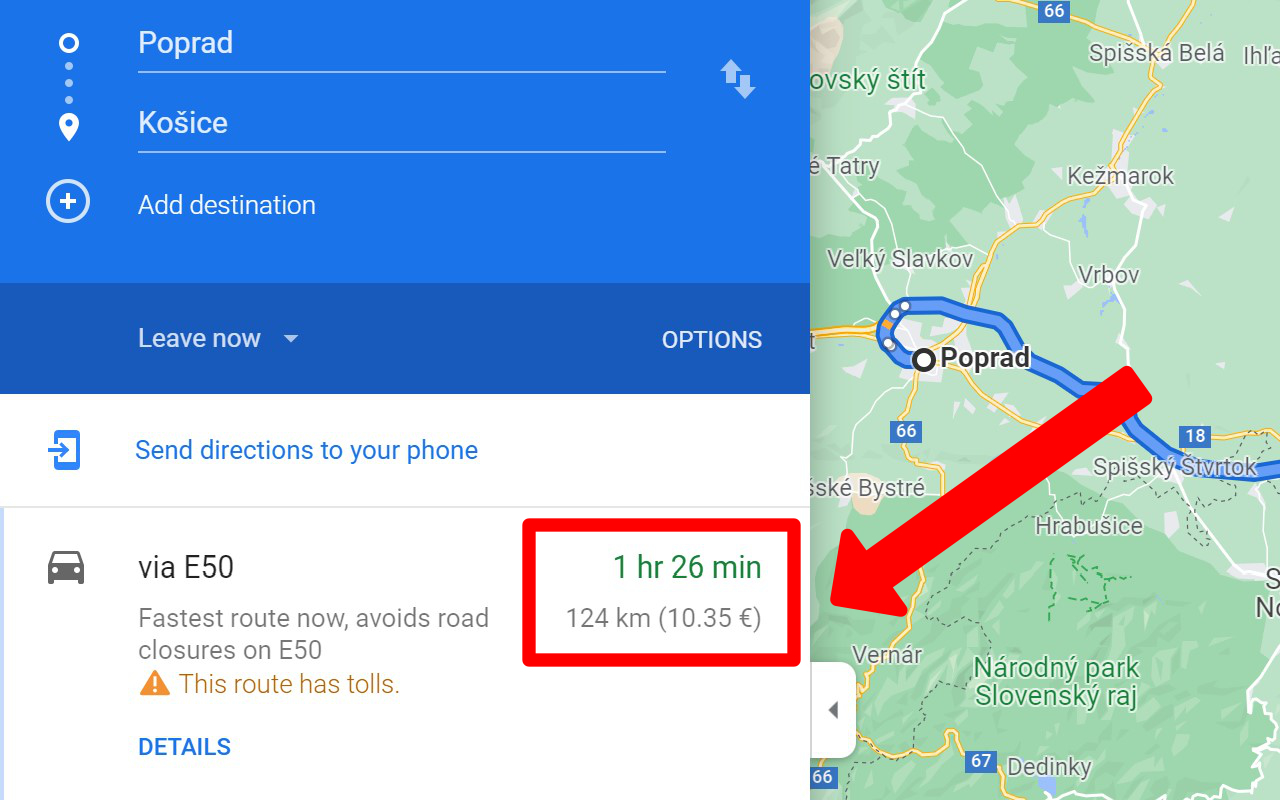
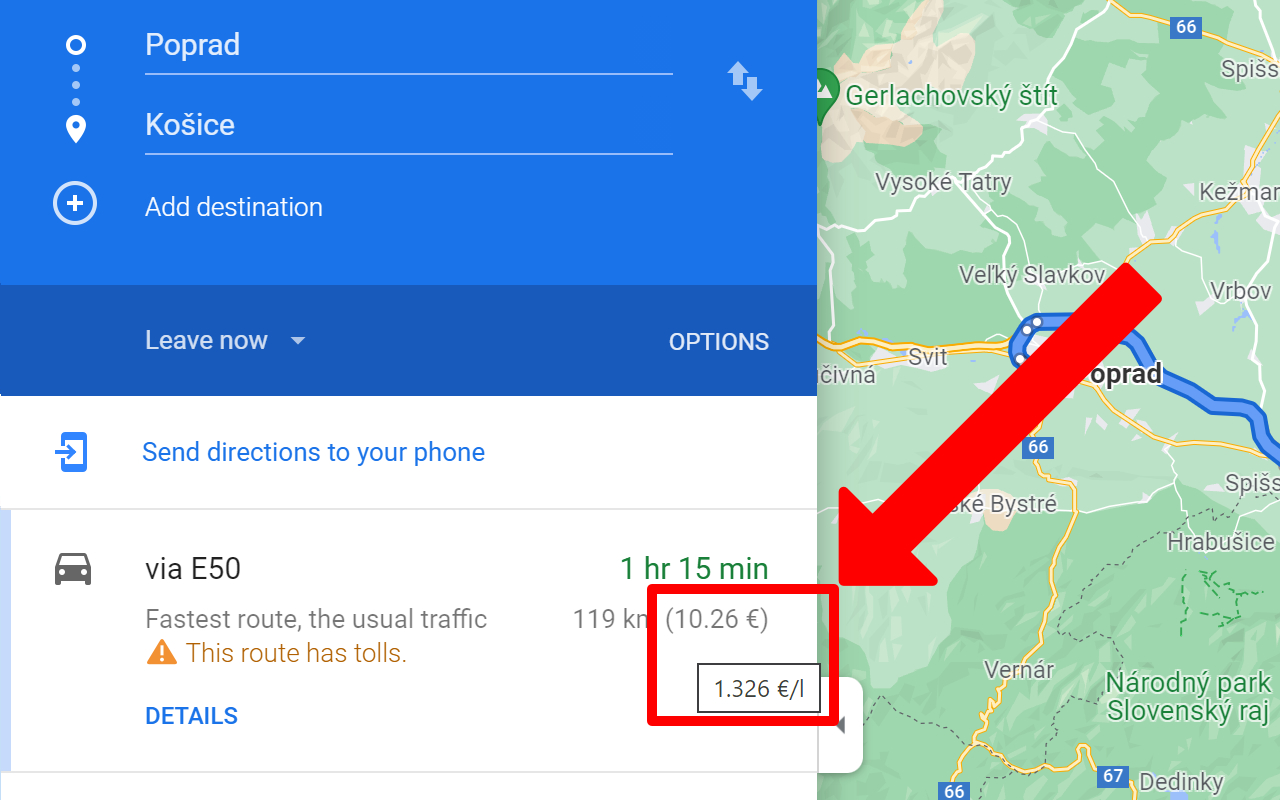
Description and screenshot

diff --git a/README.md b/README.md
@@ -1,12 +1,12 @@
 # ![Icon](icon-32.png) Cost of driving in Google Maps
 
-Automatically show the cost of rides by your vehicle in the Google Maps list of directions based on the current average fuel price.
+Automatically show the cost of rides by your vehicle in the Google Maps' list of routes based on the current average fuel price.
 
-The extension automatically calculates and shows the approximate cost of a trip for electric or classic (combustion) vehicles based on the current average fuel price, the distance of the route, and the average consumption of your vehicle.
+Simplify your planning of trips with automatic calculation of the cost of rides by your vehicle directly in the Google Maps' list of routes. 
 
-You can set your custom values anytime on the options page.
+The extension automatically calculates and shows the approximate cost of a trip for electric or classic (combustion) vehicles based on the current average price of fuel or energy, the distance of the route, and the average consumption of your vehicle.
 
-\* Automatic detection of the average fuel price is currently available only in Slovakia
+\* Automatic detection of the average fuel price is currently available only in Slovakia.
 
 ## Browser extensions
 
@@ -16,7 +16,7 @@ You can set your custom values anytime on the options page.
 
 ## Screenshots
 
-### List of directions
+### List of routes
 ![Screenshot 1](screenshot-1.jpg)
 ### Options for diesel vehicles
 ![Screenshot 2](screenshot-2.jpg)
